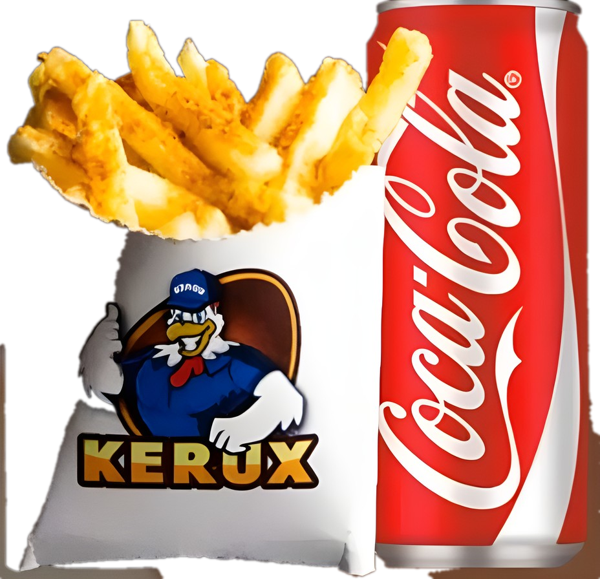
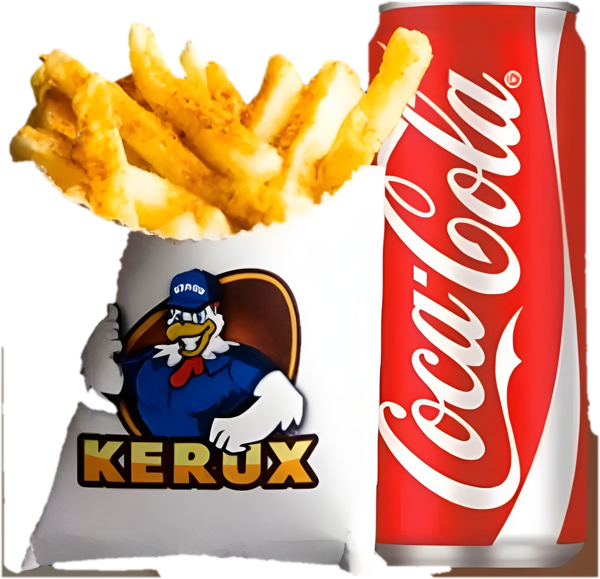
Écrans : vignette frites entière dans la barre jaune, finitions
- vignette frites + canette gardée dans la barre (elle débordait sur le cadre
  noir et les frites disparaissaient), bord gris du détourage retiré
- accent de « CÉSAR » plus coupé, « 1 000 » comme « 2 650 »
- un peu d'air entre description et prix sur Tortillas

Claude-Session: https://claude.ai/code/session_01UFvRoFcz3tvucmp7us77iT

diff --git a/src/components/screens/studio-noir.module.css b/src/components/screens/studio-noir.module.css
@@ -98,19 +98,18 @@
   background: var(--yellow);
   color: var(--ink);
 }
-/* Cut-out fries + can, a little taller than the bar so it reads as a product, not a sticker. */
+/* Cut-out fries + can, kept inside the yellow bar (overflowing it put the fries on the black frame). */
 .footImg {
   position: relative;
-  align-self: flex-end;
-  width: 7.4cqw;
-  height: 7cqw;
+  width: 6.2cqw;
+  height: 5.4cqw;
   margin-left: 0.8cqw;
   flex: none;
 }
 .footImgFg {
   object-fit: contain;
-  object-position: 50% 100%;
-  filter: drop-shadow(0 0.3cqw 0.5cqw rgba(0, 0, 0, 0.35));
+  object-position: 50% 50%;
+  filter: drop-shadow(0 0.15cqw 0.3cqw rgba(0, 0, 0, 0.3));
 }
 .footText {
   font-family: var(--font-display);
@@ -430,6 +429,9 @@
   padding: 1.1cqw 1.5cqw 1.3cqw;
   background: var(--band);
 }
+.band .priceBlock {
+  margin-top: 0.6cqw;
+}
 .band h3 {
   font-size: 3.4cqw;
 }
@@ -508,6 +510,7 @@
   white-space: nowrap;
   overflow: hidden;
   text-overflow: ellipsis;
+  padding-top: 0.14em; /* room for capital accents (CÉSAR) inside the clipped box */
 }
 .lg h3 {
   font-size: 2.15cqw;

diff --git a/src/components/screens/studio-noir.tsx b/src/components/screens/studio-noir.tsx
@@ -8,7 +8,8 @@ import s from "./studio-noir.module.css";
 
 const REFRESH_MS = 10_000;
 const HERO_MS = 7_000;
-const dinars = new Intl.NumberFormat("fr-DZ", { maximumFractionDigits: 0 });
+/** "1 000" like "2 650" (Intl in fr skips the space under 10 000 in some browsers), narrow no-break space. */
+const dinars = { format: (v: number) => String(Math.round(v)).replace(/\B(?=(\d{3})+(?!\d))/g, "\u202F") };
 
 /* ------------------------------------------------------------------ hooks */
 
